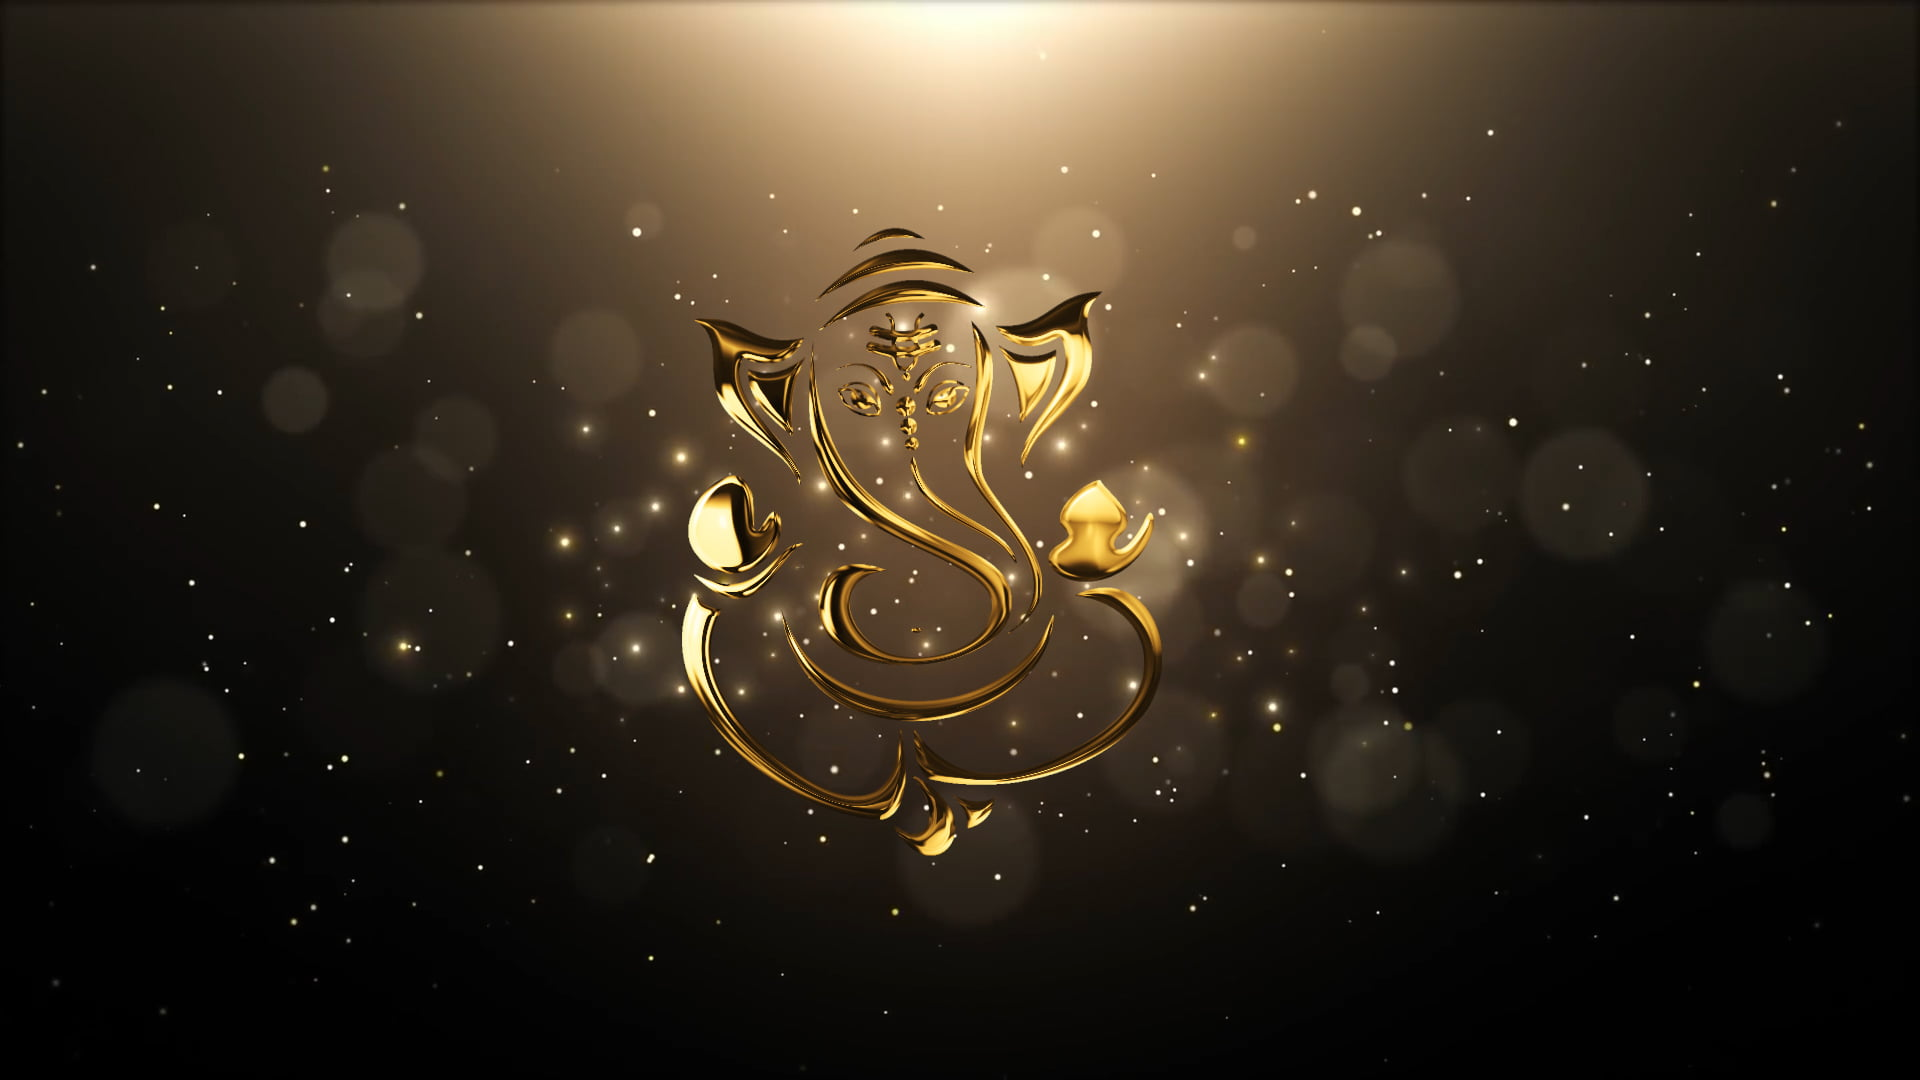
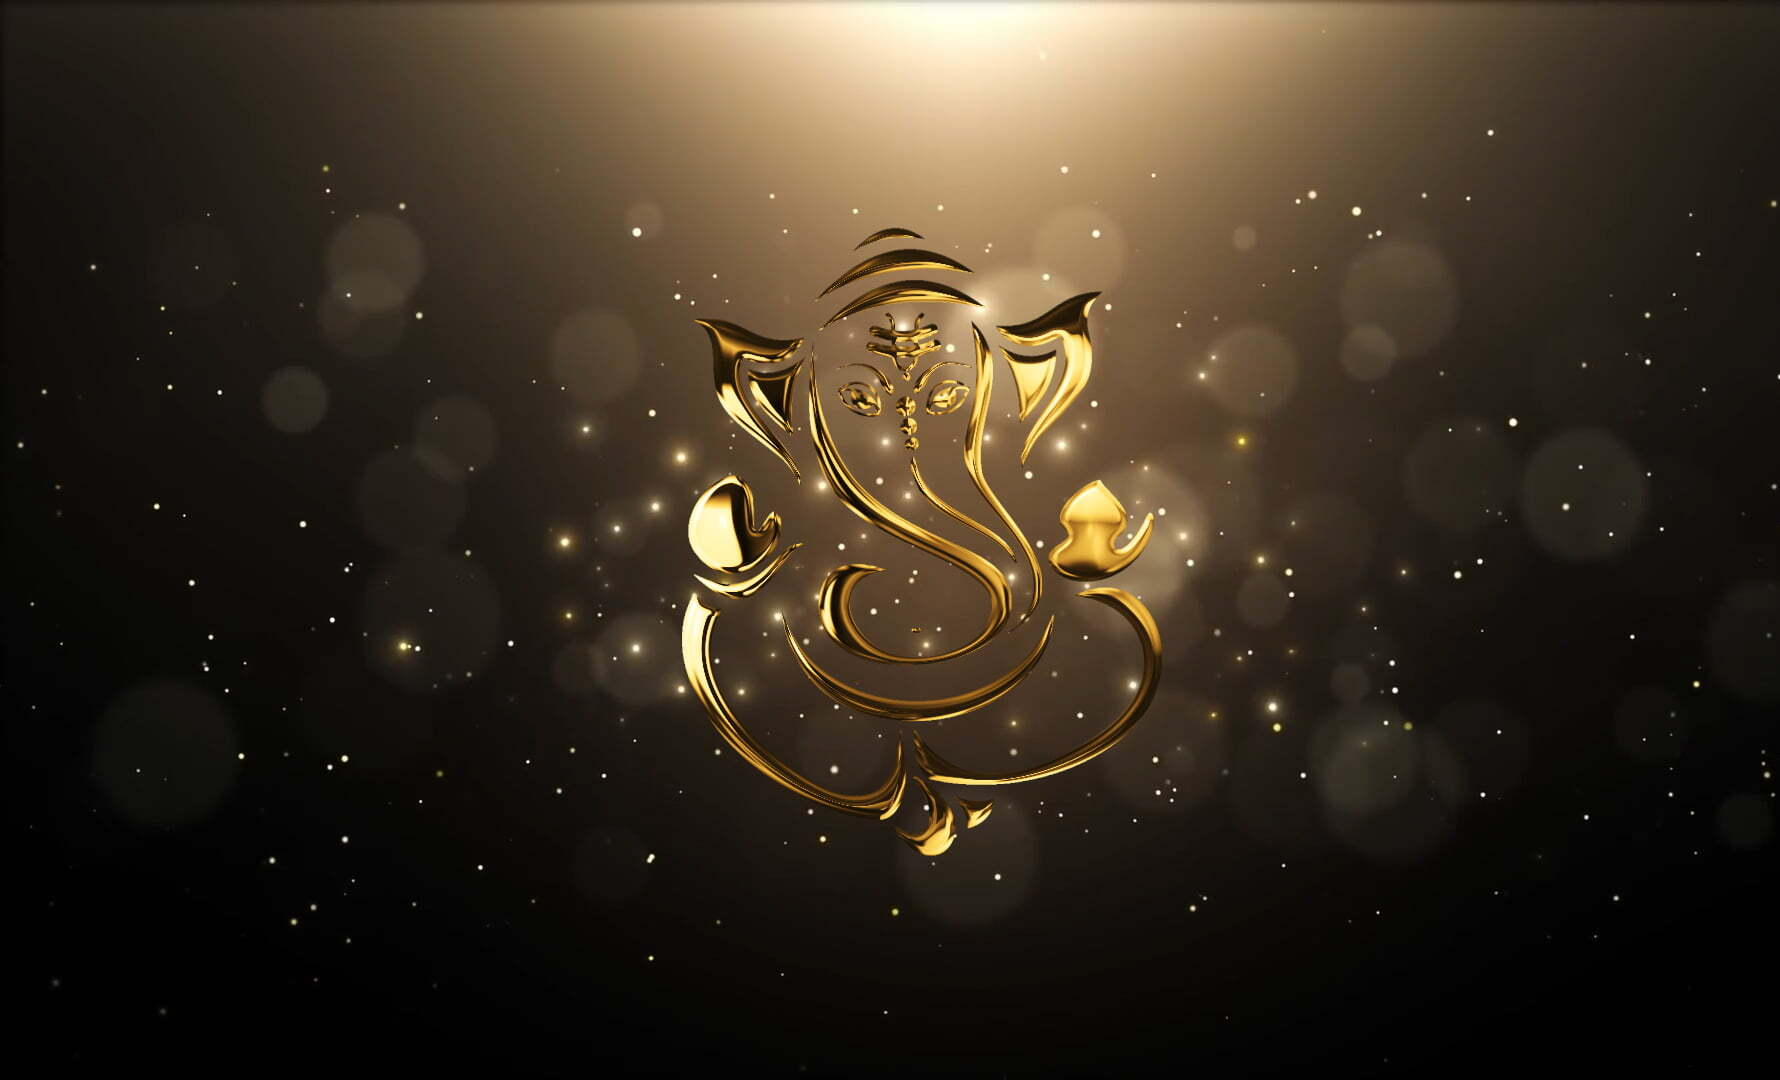
Crop entrance image so Ganesha head is truly centered in-file; reset bg-position to center for reliable centering on all screens

diff --git a/app/components/EnvelopeIntro.tsx b/app/components/EnvelopeIntro.tsx
@@ -102,7 +102,7 @@ export default function EnvelopeIntro() {
             backgroundColor: "#000000",
             backgroundImage: "url('/ganapathi-gold.jpg')",
             backgroundSize: "cover",
-            backgroundPosition: "56% center",
+            backgroundPosition: "center",
             backgroundRepeat: "no-repeat",
           }}
         >
